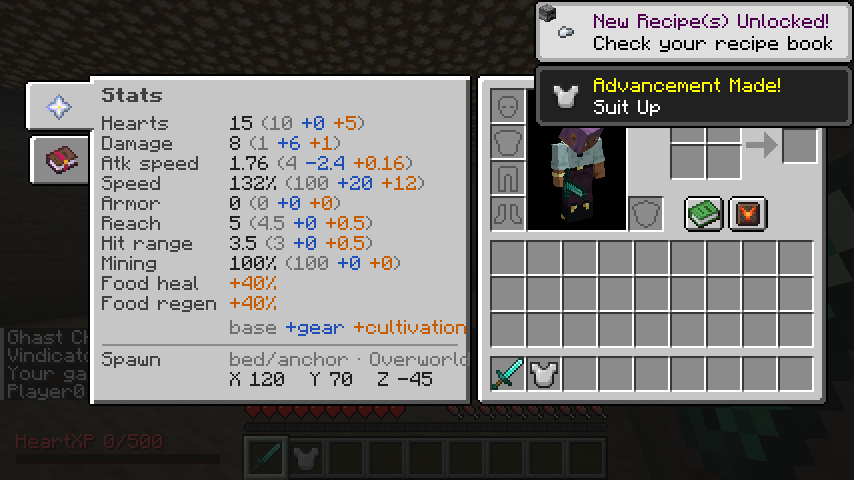
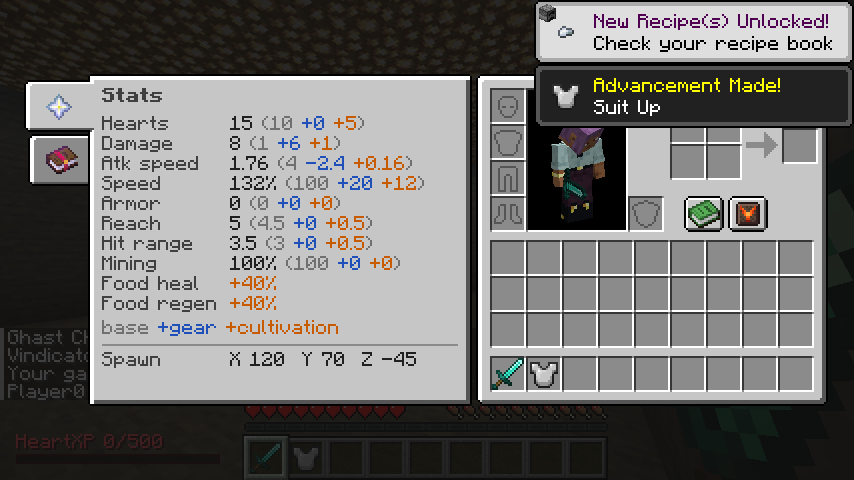
Stats tab: spawn coordinates on the Spawn line, legend at the left margin (D42)

Changed region(s): [[0.1218, 0.6562, 0.548, 0.8125], [0.0609, 0.3125, 0.0913, 0.3438], [0.0609, 0.2188, 0.0913, 0.25]]

diff --git a/mods/permahearts/src/client/java/io/github/huydangtruong/permahearts/client/StatsPanel.java b/mods/permahearts/src/client/java/io/github/huydangtruong/permahearts/client/StatsPanel.java
@@ -28,7 +28,7 @@ import net.minecraft.world.item.ItemStack;
 /**
  * Cultivation panel (D31, D39, D40): a rounded tablet button next to the recipe book button in the survival inventory opens a
  * panel on the left with tabs like the recipe book's. Stats tab: each stat as "total (base +gear +cultivation)", the
- * Vitality bonuses (food heal, food regen) and the respawn point. Techniques tab: empty for now. Works like the recipe book: the inventory moves
+ * Vitality bonuses (food heal, food regen) and the respawn point (one line). Techniques tab: empty for now. Works like the recipe book: the inventory moves
  * right, and opening one closes the other. Data comes from the server (StatsSync), once a second.
  */
 public final class StatsPanel {
@@ -218,16 +218,16 @@ public final class StatsPanel {
 		g.text(font, "Food regen", tx, y, TEXT, false); // D41: natural regeneration from a full food bar
 		drawLeft(g, font, vx, y, new String[] {heal}, new int[] {stats.vitality() > 0 ? BONUS : BASE});
 		y += LINE + 2;
-		drawLeft(g, font, vx, y, new String[] {"base ", "+gear ", "+cultivation"}, new int[] {BASE, GEAR, BONUS});
+		drawLeft(g, font, tx, y, new String[] {"base ", "+gear ", "+cultivation"}, new int[] {BASE, GEAR, BONUS});
 		y += LINE + 2;
 		g.fill(tx, y, right, y + 1, 0xFF8B8B8B);
 		y += 4;
+		// One line (Huy): the coordinates right next to "Spawn"; no bed/world or dimension note.
 		PlayerStats.Spawn s = stats.spawn();
 		g.text(font, "Spawn", tx, y, TEXT, false);
-		drawLeft(g, font, vx, y, new String[] {(s.personal() ? "bed/anchor" : "world spawn") + " · " + dimension(s.dimension())},
-			new int[] {BASE});
-		y += LINE;
-		drawLeft(g, font, vx, y, new String[] {"X " + s.x() + "   Y " + s.y() + "   Z " + s.z()}, new int[] {TOTAL});
+		String at = "X " + s.x() + "  Y " + s.y() + "  Z " + s.z();
+		int ax = vx + font.width(at) <= right ? vx : tx + font.width("Spawn") + 6; // long coordinates start earlier
+		drawLeft(g, font, ax, y, new String[] {at}, new int[] {TOTAL});
 	}
 
 	private static int labelWidth(Font font) {
@@ -243,15 +243,6 @@ public final class StatsPanel {
 			g.text(font, parts[i], x, y, colors[i], false);
 			x += font.width(parts[i]);
 		}
-	}
-
-	private static String dimension(String id) {
-		return switch (id) {
-			case "minecraft:overworld" -> "Overworld";
-			case "minecraft:the_nether" -> "Nether";
-			case "minecraft:the_end" -> "End";
-			default -> id.substring(id.indexOf(':') + 1);
-		};
 	}
 
 	/** Same size and rounded style as the recipe book button: a stone tablet with spirit wings (tools/make_stats_sprites.py). */

diff --git a/docs/system/01-decisions.md b/docs/system/01-decisions.md
@@ -43,3 +43,4 @@
 | D39 | Nút và tab của bảng chỉ số | Nút mở bảng (cạnh nút sách công thức) đổi thành biểu tượng ~~Thái cực~~ (→ D40), **bo góc** cùng kiểu với nút sách công thức; tên/tooltip "Cultivation". Bảng bên trái có **tab** như sách công thức: tab 1 **Stats** (chỉ số như D31), tab 2 **Techniques** (chiêu thức, hiện để trống — Huy mô tả sau). Hình vẽ bằng `mods/permahearts/tools/make_stats_sprites.py` | 2026-11-14 |
 | D40 | Biểu tượng nút và tab Stats | Nút mở bảng: **phiến đá** tông nâu ấm (như phiến của mẫu rèn Host) với biểu tượng **Cánh hồn** màu đỏ cam — hình tự vẽ, không chép texture của Minecraft. Tab Stats dùng vật phẩm **Nether Star** của game (tab Techniques vẫn là sách phép) | 2026-11-14 |
 | D41 | Vitality: hồi máu tự nhiên | Mỗi bình Vitality: **+20%** máu hồi ngay khi ăn (thay 25% của D30; bít tết +0,8 tim mỗi bình) **và +20% hồi máu tự nhiên khi no** (cả hồi nhanh nhờ bão hoà khi đầy thanh đói, lẫn hồi chậm khi ≥18 điểm đói). 4 bình = +80%. Tốn đói như vanilla, không tăng. Bảng Stats có dòng "Food regen". Công tắc tắt thì như vanilla | 2026-11-14 |
+| D42 | Dòng Spawn một dòng | Bảng Stats: toạ độ hồi sinh ghi ngay cạnh chữ **Spawn** trên cùng một dòng; bỏ chú thích giường/anchor và tên thế giới. Dòng chú thích "base +gear +cultivation" dời về lề trái | 2026-11-14 |
